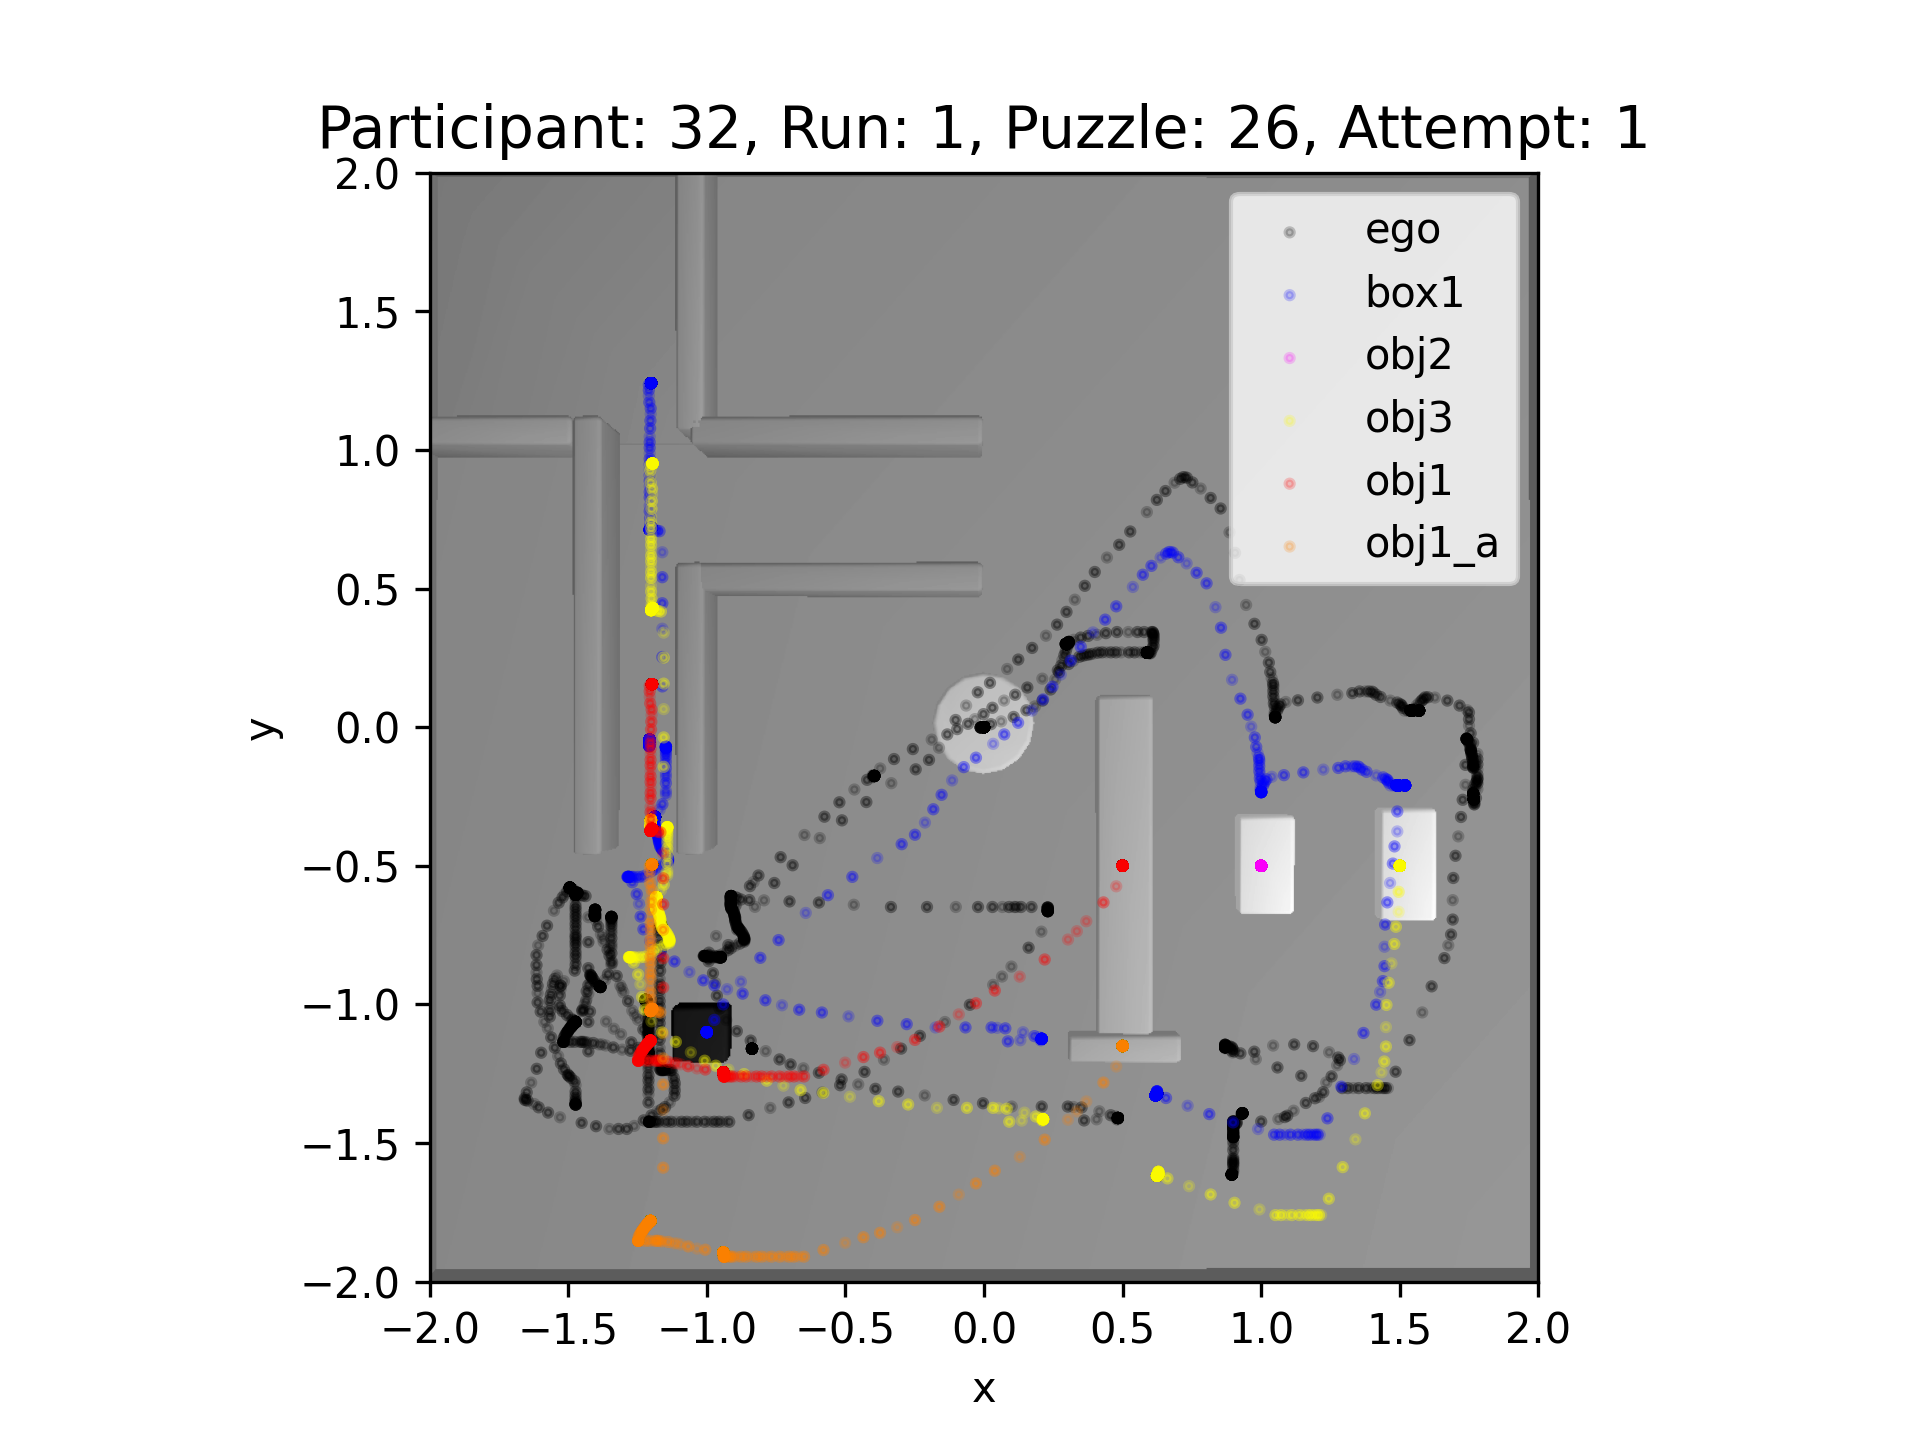
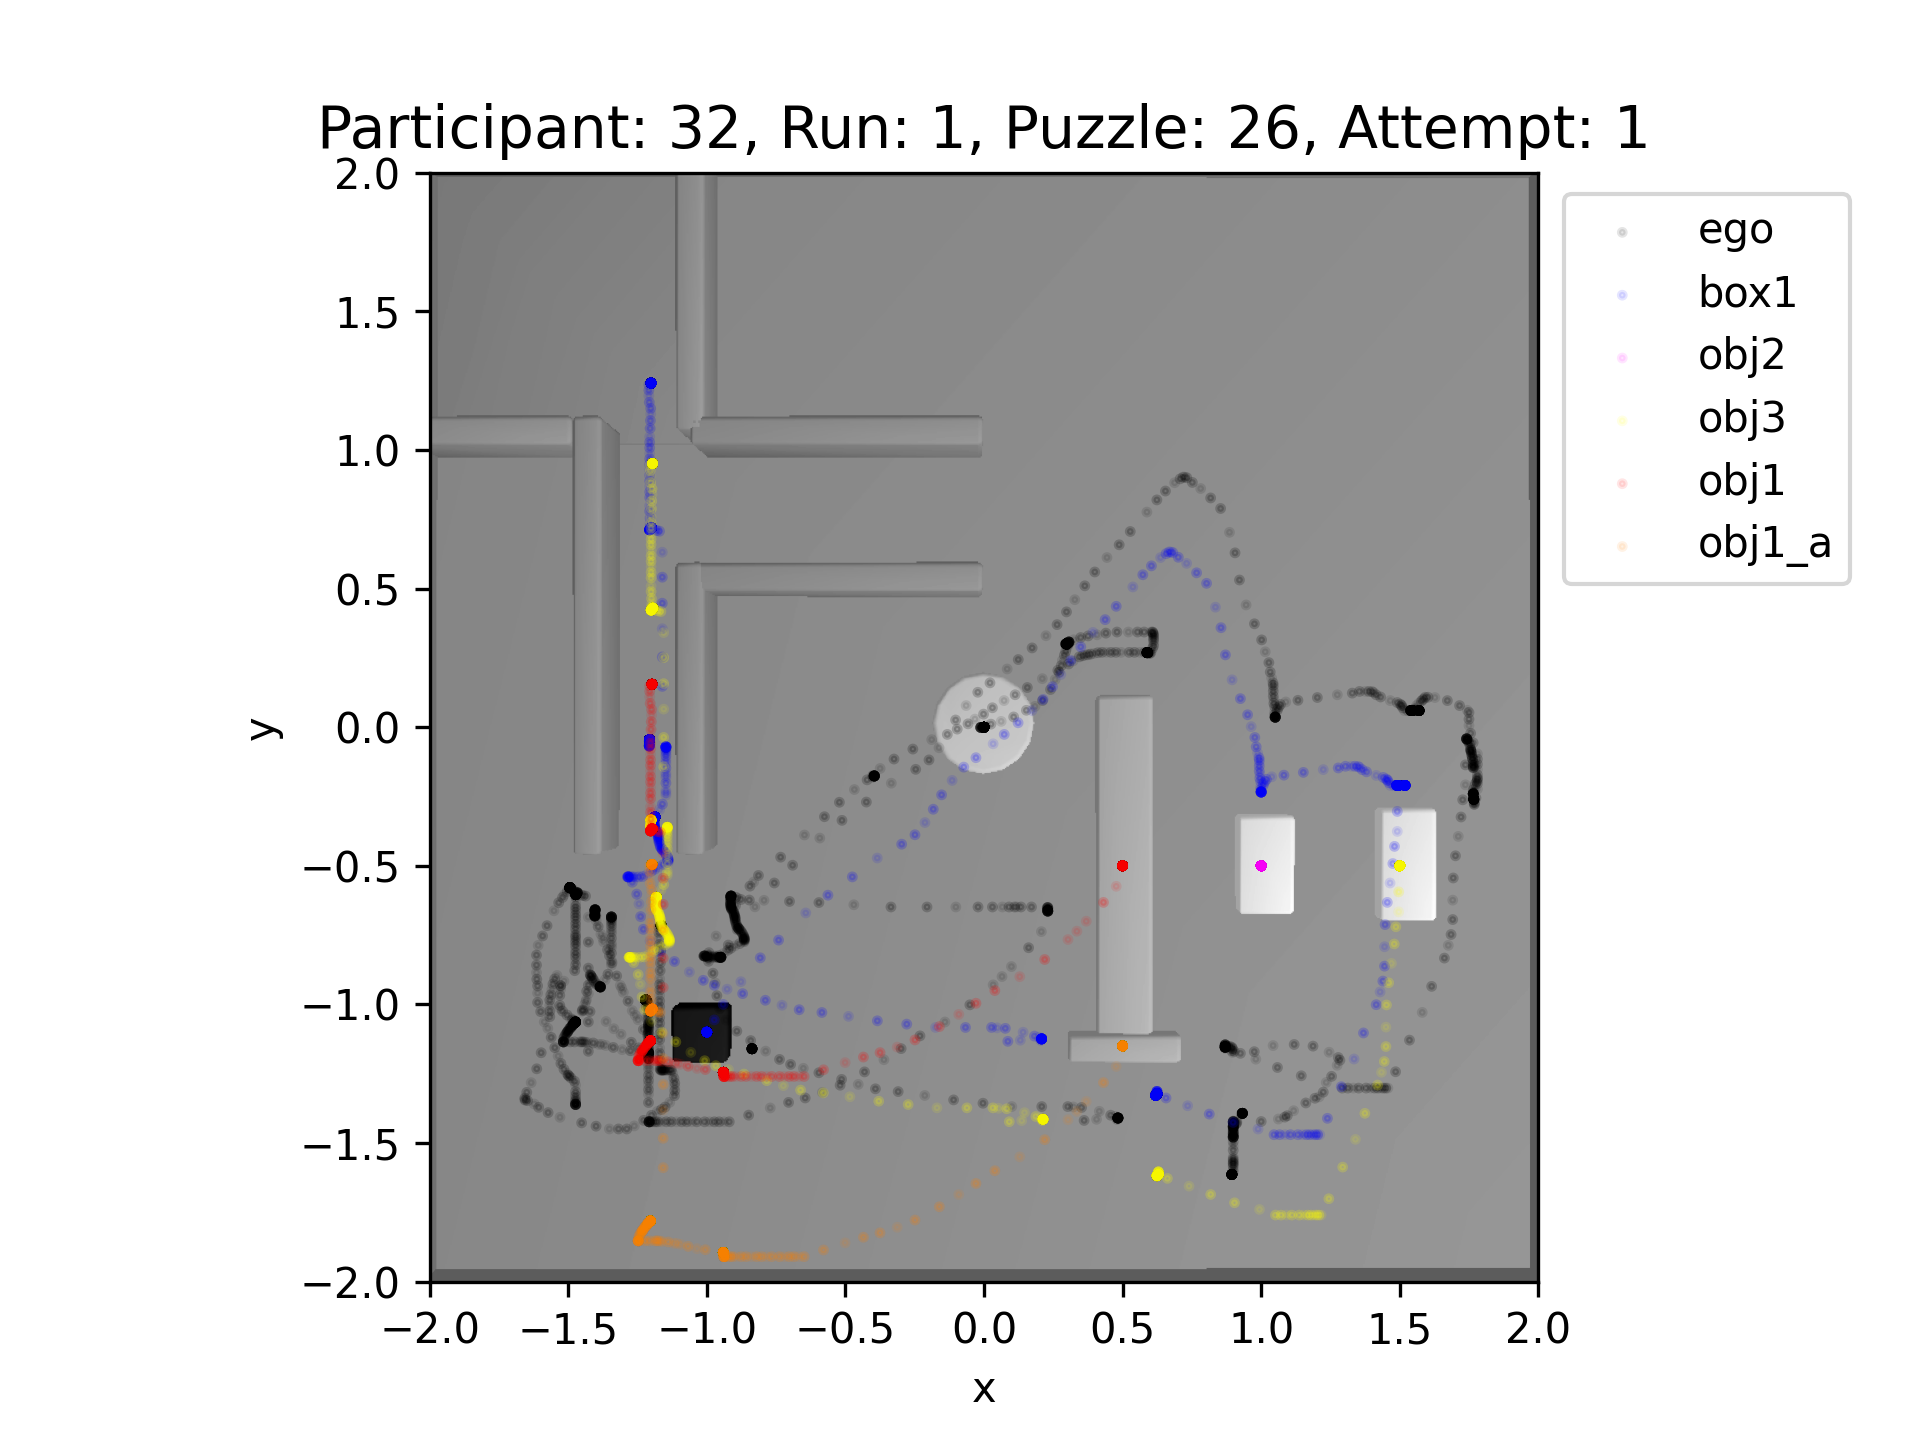
reccognize obj1_a for puzzle 26 and rerun distance matrix and clustering,

diff --git a/SRC/PathsFrame.py b/SRC/PathsFrame.py
@@ -7,26 +7,44 @@ import matplotlib.pyplot as plt
 import matplotlib as mpl
 from PIL import Image
 import time
+import movementTracker
 
 start_time = time.time()
-
-def coloring(type,c):
-    if type=='box1':
-        return (0,0,1,c)
-    elif type=='box2':
-        return (0,1,0,c)
-    elif type=='obj1':
-        return (1,0,0,c)
-    elif type=='obj1_a':
-        return (1,0.5,0,c)
-    elif type=='obj2':
-        return (1,0,1,c)
-    elif type=='obj3':
-        return (1,1,0,c)
-    elif type=='obj4':
-        return (0,1,1,c)
-    elif type=='ego':
-        return (0,0,0,c)
+def coloring(object,dummy = False):
+    if dummy:
+        if object=='box1':
+            return (0,0,1) 
+        elif object=='box2':
+            return (0,1,0) 
+        elif object=='obj1':
+            return (1,0,0) 
+        elif type=='obj1_a':
+            return (1,0.5,0)
+        elif object=='obj2':
+            return (1,0,1) 
+        elif object=='obj3':
+            return (1,1,0) 
+        elif object=='obj4':
+            return (0,1,1) 
+        elif object=='ego':
+            return (0,0,0) 
+    else:
+        if object=='box1':
+            return [(0,0,1,c) for c in np.linspace(0,1,100)]
+        elif object=='box2':
+            return [(0,1,0,c) for c in np.linspace(0,1,100)]
+        elif object=='obj1':
+            return [(1,0,0,c) for c in np.linspace(0,1,100)]
+        elif object=='obj1_a':
+            return [(1,0.5,0,c) for c in np.linspace(0,1,100)]
+        elif object=='obj2':
+            return [(1,0,1,c) for c in np.linspace(0,1,100)]
+        elif object=='obj3':
+            return [(1,1,0,c) for c in np.linspace(0,1,100)]
+        elif object=='obj4':
+            return [(0,1,1,c) for c in np.linspace(0,1,100)]
+        elif object=='ego':
+            return [(0,0,0,c) for c in np.linspace(0,1,100)]
     
 def positional_vector(data):
     """
@@ -86,68 +104,129 @@ def use_regex(input_text):
 def main():
  for pilot in [3,4]:
         folder = './Data/Pilot{}/Frames'.format(pilot)
+        ego_folder = './Data/Pilot{}/Ego-based'.format(pilot)
 
+        n = len(os.listdir(folder))
+        filecounter = 0
         for filename in os.listdir(folder):
+            print(filename)
+            ego_filename = filename[:-12] + '.json'
+            # print(filename)
+            # print(ego_filename)
+            df = pd.read_json(os.path.join(ego_folder, ego_filename))
+            print(f'{filecounter}/{n}')
+            filecounter += 1
             if filename.endswith('.json'):
                 participant_id, run, puzzle, attempt = use_regex(filename)
- 
-            if puzzle==26 :
+            #check if the file is already plotted
+            
+            
+            solved , total_time = movementTracker.interaction(df, participant_id, run, "free", solved=True)
+            # print(solved, total_time)
+            if not os.path.isfile('./Plots_Text/Path_Plots/frameBased/'+ str(participant_id)+'_'+ str(run)+'_'+str(puzzle)+'_'+str(attempt)+'.png') and puzzle in [1, 2, 3, 4,5, 6, 21, 22, 23, 24, 25, 26]:
 
                 with open(os.path.join(folder,filename)) as json_file:
                             
-                            data = json.load(json_file)
-                            vector, objects_names = positional_vector(data)
-                            
-                            total_objects = len(objects_names)
-                            # print(objects_names)
-                            # print(total_objects)
-                            # cm_list= ['Greys', 'Purples', 'Blues', 'Greens', 'Oranges','Reds', 'PuRd']
-                          
-                            fig, ax = plt.subplots()
-                            for i in range(total_objects):
+                        data = json.load(json_file)
+                        vector, objects_names = positional_vector(data)
+                        total_objects_len = len(objects_names)
 
-                                object = list(objects_names)[i]
-                                if True:
-                                 
-        
-                                    xi = vector[object]['x']
-                                    yi = vector[object]['y']
-                                    xi = np.array(xi)
-                                    yi = np.array(yi)
-                                    # print(xi.size, yi.size)
-                                    # print(xi, yi)
+                        # velocity_vector = vector.diff()
+                        # velocity_vector = velocity_vector.drop(0)
+                        # velocity_vector = velocity_vector.reset_index(drop=True)
+                        # #drop ego 
+                        
+
+                        # v=np.zeros((len(velocity_vector),(total_objects_len-1)*2))
+
+                        # for i in range((total_objects_len-1)):
+                        #     vx = velocity_vector[vector.columns[i*2][0],'x']
+                        #     vx=np.array(vx, dtype=np.float64)
+                        #     vy = velocity_vector[vector.columns[i*2][0],'y']
+                        #     vy=np.array(vy, dtype=np.float64)
+                        #     # v_temp=np.sqrt(vx**2+vy**2)
+                        #     v[:,i*2]=vx
+                        #     v[:,i*2+1]=vy
+                        
+                        #     # Initialize a dictionary to store which parts of the velocity vectors are equal
+                        #     equal_velocity_parts = {}
+
+                        #     for i in range((total_objects_len-1)):
+                        #         for j in range(i + 1, (total_objects_len-1)):
+                        #             vx1 = v[:, i * 2]  # vx values for object i
+                        #             vy1 = v[:, i * 2 + 1]  # vy values for object i
+                        #             vx2 = v[:, j * 2]  # vx values for object j
+                        #             vy2 = v[:, j * 2 + 1]  # vy values for object j
+
+                        #             # Compare the vx components of object i and object j
+                        #             equal_vx = np.where(vx1 == vx2)[0]
+                                    
+                        #             # Compare the vy components of object i and object j
+                        #             equal_vy = np.where(vy1 == vy2)[0]
+
+                        #             # Store the equal components in the dictionary
+                        #             if i not in equal_velocity_parts:
+                        #                 equal_velocity_parts[i] = {"equal_vx": [], "equal_vy": []}
+                        #             if j not in equal_velocity_parts:
+                        #                 equal_velocity_parts[j] = {"equal_vx": [], "equal_vy": []}
+
+                        #             equal_velocity_parts[i]["equal_vx"].extend(equal_vx)
+                        #             equal_velocity_parts[j]["equal_vx"].extend(equal_vx)
+
+                        #             equal_velocity_parts[i]["equal_vy"].extend(equal_vy)
+                        #             equal_velocity_parts[j]["equal_vy"].extend(equal_vy)
+
+                        #     # 'equal_velocity_parts' now contains the parts of the velocity vectors that are equal between objects.
+                        #     # The keys are the indices of the objects, and the values are dictionaries containing equal vx and vy components.
+                        #     print(equal_velocity_parts.keys())
+
+                                
+                        fig, ax = plt.subplots()
+                        for i in range(total_objects_len):
+
+                            object = list(objects_names)[i]
+                            if objects_names[object] != 'ego':
+                                
+    
+                                xi = vector[object]['x']
+                                yi = vector[object]['y']
+                                xi = np.array(xi)
+                                yi = np.array(yi)
+                                # print(xi.size, yi.size)
+                                # print(xi, yi)
 
 
-                                    imgfolder = './cropped_puzzles_screenshots'
-                                    fname = os.path.join(imgfolder, 'puzzle'+str(puzzle)+'.png')
-                                    img = Image.open(fname).convert('L')
+                                imgfolder = './cropped_puzzles_screenshots'
+                                fname = os.path.join(imgfolder, 'puzzle'+str(puzzle)+'.png')
+                                img = Image.open(fname).convert('L')
 
-                                    img = ax.imshow(img, extent=[-2, 2, -2, 2], cmap='gray')
+                                img = ax.imshow(img, extent=[-2, 2, -2, 2], cmap='gray')
 
-                                    if xi.size == 0 or yi.size == 0:
-                                        continue
-                                    else:
-                                        t = objects_names[object]
-                                        colors=[coloring(t,j) for j in np.linspace(0.0,1,len(xi))]
-                                        #diffrent colors for each type
-                                        # colors=[coloring(type,i) for i in np.linspace(0.2,1,len(xi))]
-                                        # cm=mcolors.LinearSegmentedColormap.from_list('mylist', colors, N=len(xi))
-                                        c=np.arange(0,len(xi))
-                                        #map alpha from first to last point in xi
-                                        #increase alpha from first to last point in xi
+                                if xi.size == 0 or yi.size == 0:
+                                    continue
+                                else:
+                                    t = objects_names[object]
+                                    colors=[coloring(t,j) for j in np.linspace(0.1,1,len(xi))]
+                                    #diffrent colors for each type
+                                    # colors=[coloring(type,i) for i in np.linspace(0.2,1,len(xi))]
+                                    # cm=mcolors.LinearSegmentedColormap.from_list('mylist', colors, N=len(xi))
+                                    c=np.arange(0,len(xi))
+                                    #map alpha from first to last point in xi
+                                    #increase alpha from first to last point in xi
 
-                                        ax.scatter(xi, yi, alpha=0.2,label=objects_names[object], c = colors, s=15,edgecolors='face',
-                                                marker= ".")
-                                        
-                                        plt.xlim(-2, 2)
-                                        plt.ylim(-2, 2)
-                                        plt.xlabel('x')
-                                        plt.ylabel('y')
-                                        plt.legend()
-                                        title= f'Participant: {participant_id}, Run: {run}, Puzzle: {puzzle}, Attempt: {attempt}'.format(participant_id, run, puzzle, attempt)
-                                        plt.title(title, fontsize=14)
-                                        # plt.show()
-                plt.savefig('./Temp_Frame_Path_Plots/'+
+                                    ax.scatter(xi, yi,alpha=0.1, c = colors, s=10,
+                                            marker= ".")
+                                    sc = plt.scatter([],[], color=coloring(objects_names[object], True), label=objects_names[object])
+                                    
+                                    plt.xlim(-2, 2)
+                                    plt.ylim(-2, 2)
+                                    plt.xlabel('x')
+                                    plt.ylabel('y')
+                                    plt.legend(loc='upper right', bbox_to_anchor=(1.3, 1))
+                                    title= f'Participant: {participant_id}, Run: {run}, Puzzle: {puzzle}, Attempt: {attempt}, \n Solved: {solved}, Total time: {total_time} s'.format(participant_id, run, puzzle, attempt, solved, total_time)
+                                    plt.title(title, fontsize=14)
+                                    # plt.show()
+                plt.savefig('./Plots_Text/Path_Plots/frameBased/'+
                                 str(participant_id)+'_'+ str(run)+'_'+str(puzzle)+'_'+str(attempt)+'.png', dpi=300)
                 plt.close()
                                 

diff --git a/SRC/clusterPositionalVector.py b/SRC/clusterPositionalVector.py
@@ -203,6 +203,7 @@ def Heatmap(cluster_id, data_ids, puzzleNumber):
     img = Image.open(fname).convert('L')
     img = ax.imshow(img, extent=[-2, 2, -2, 2], cmap='gray')
     for i,object in enumerate(present_objects):
+        if present_objects[object] != 'ego':
         colors = coloring(present_objects[object])
         cmap = mcolors.LinearSegmentedColormap.from_list('mycmap', colors, N=100)
         x = cluster_vector[object]['x']

diff --git a/SRC/gifGenerator.py b/SRC/gifGenerator.py
@@ -2,9 +2,11 @@ from PIL import Image
 import os
 import re
 
-def gif(desired_puzzle, ids=[]):
+def gif(desired_puzzle, ids=[],frameBased=False):
 
     pathimage_folder = "./Plots_Text/Path_Plots"
+    if frameBased:
+        pathimage_folder = "./Plots_Text/Path_Plots/frameBased"
     png_files = [f for f in os.listdir(pathimage_folder) if f.endswith('.png')]
 
     def use_regex(input_text):
